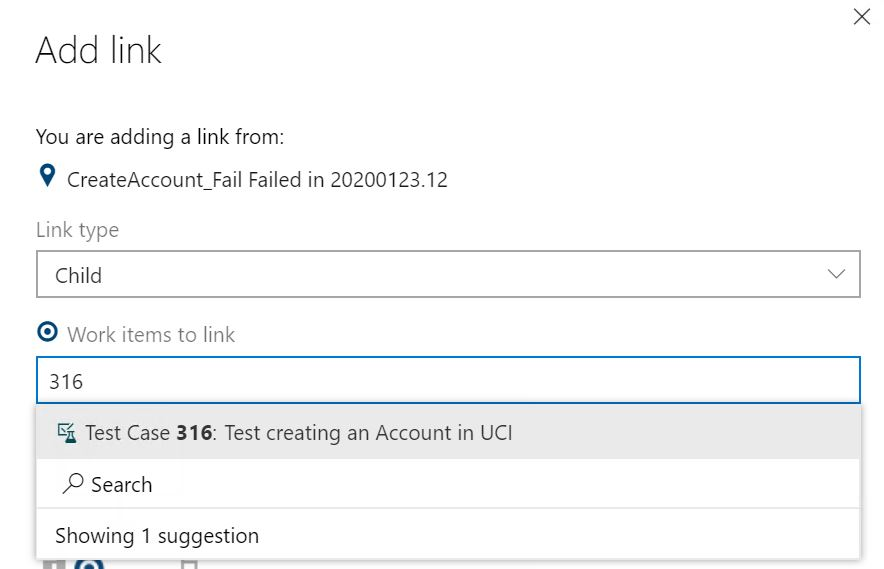
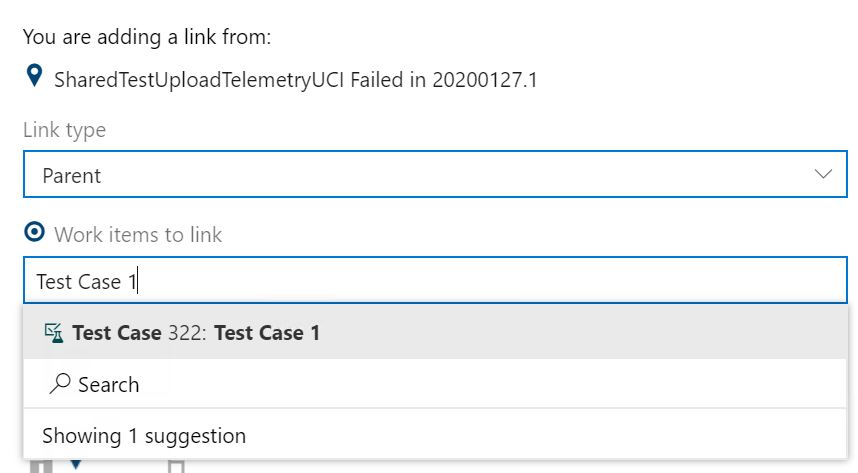
Adding updated bug link type

Changed region(s): [[0.0, 0.0592, 1.0, 1.0], [0.9697, 0.0, 1.0, 0.0592]]

diff --git a/lab04/Lab 04 Review Tests and Assign Bugs.md b/lab04/Lab 04 Review Tests and Assign Bugs.md
@@ -113,7 +113,7 @@ In this exercise, you will go understanding how to examine test outcomes. The re
 
       ![](https://raw.githubusercontent.com/aliyoussefi/BAST306T-Labs/master/lab04/images/ADO-Build-Failed-Run-TestsTab-FailedTests-Bug-LinkWorkItemButton-Existing.JPG)
 
-1. Choose ID **316**. You should see the work item pull up.
+1. Choose Name **Test Case 1**. You should see the work item pull up. Ensure the Link type is **Parent**.
 
       ![](https://raw.githubusercontent.com/aliyoussefi/BAST306T-Labs/master/lab04/images/ADO-Build-Failed-Run-TestsTab-FailedTests-Bug-LinkTestCase.JPG)
 
